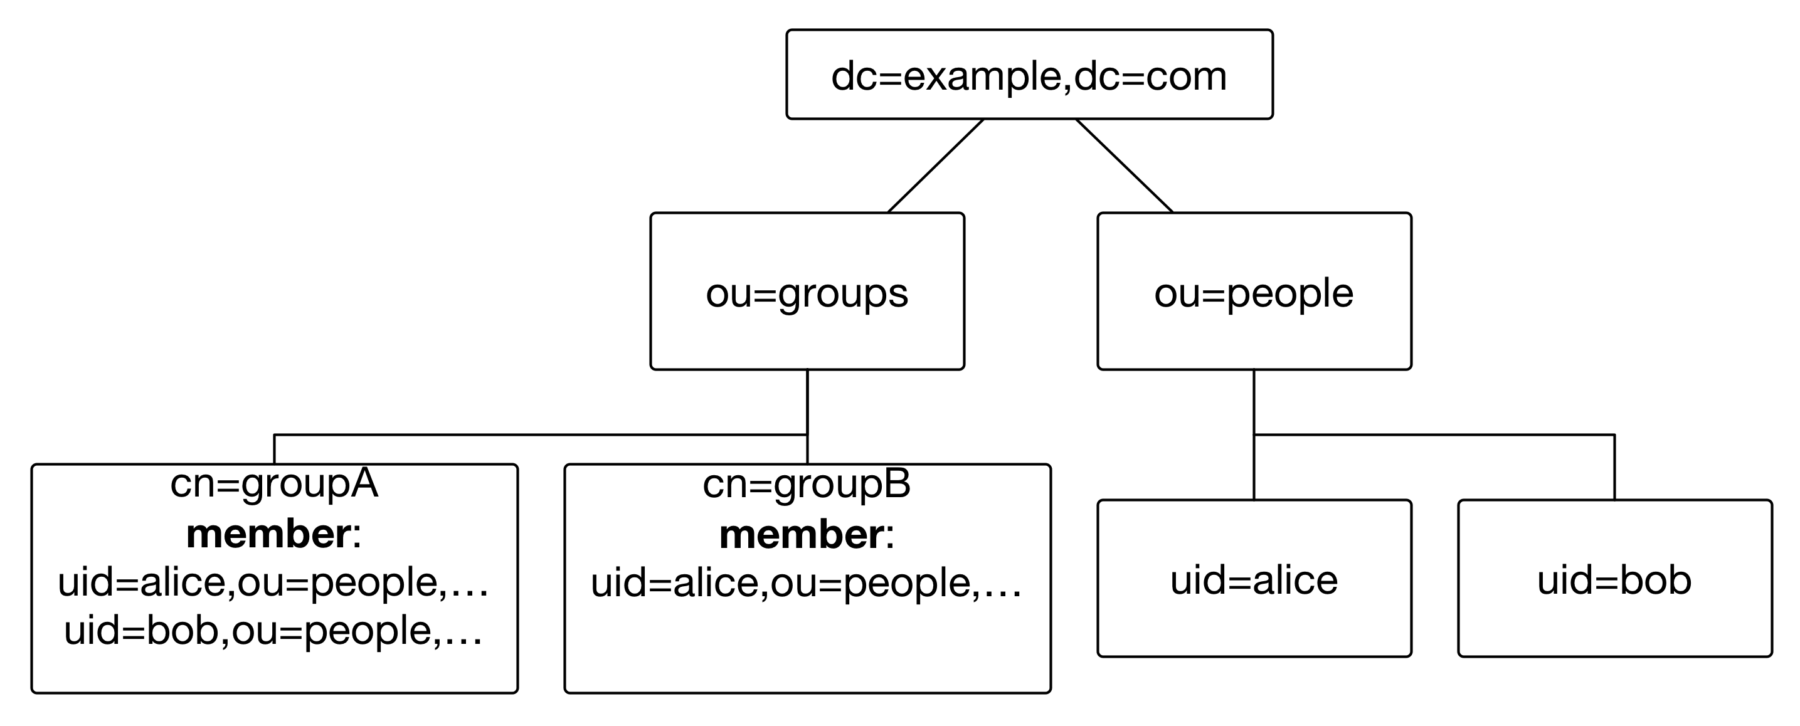
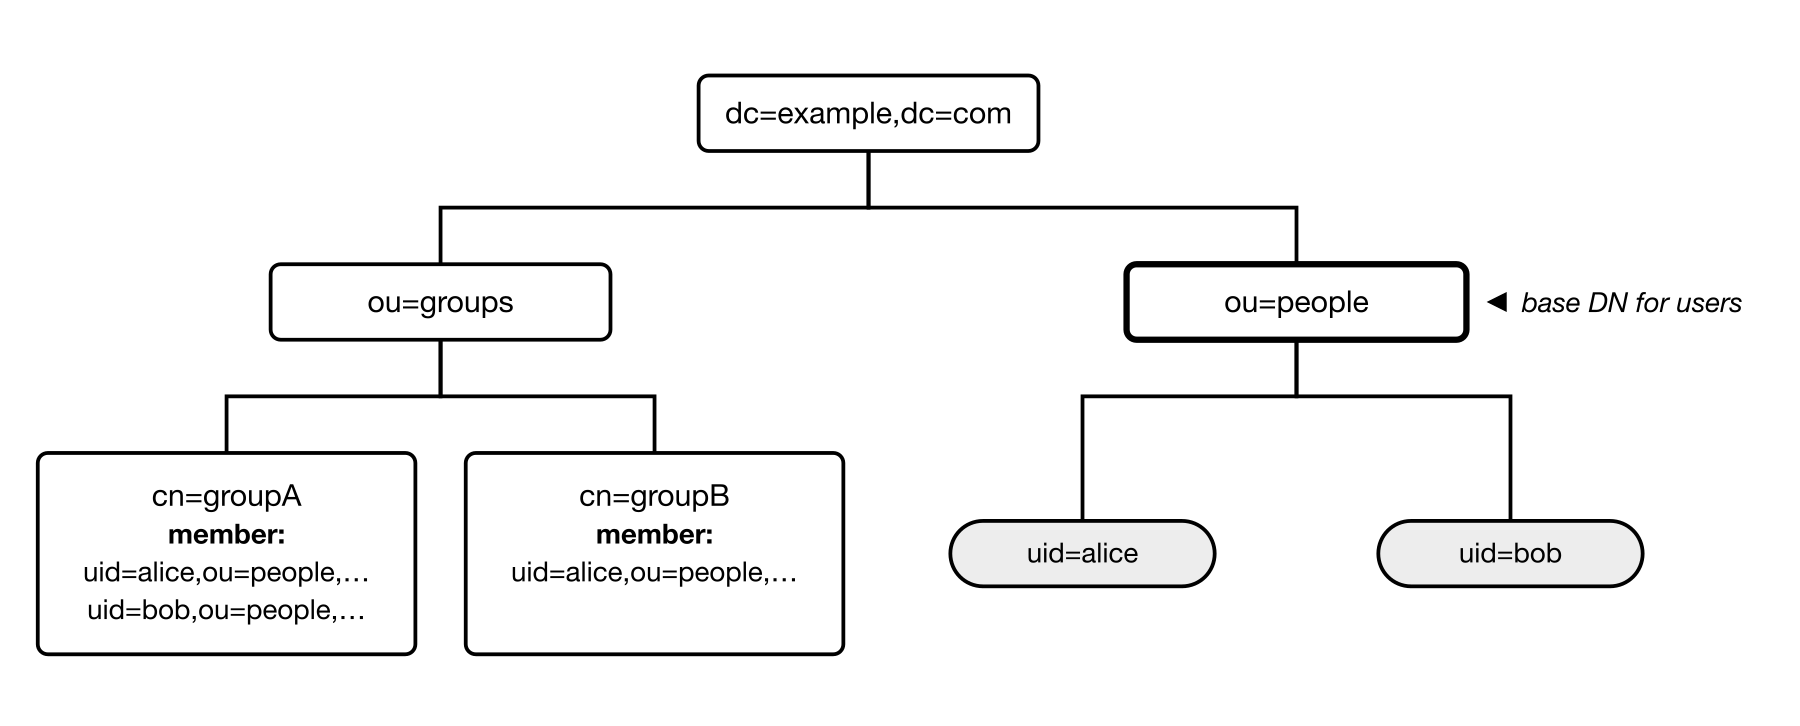
[DOCU-841] Department sync ldap (#24532)
* Add documentation for LDAP department sync

* Regenerate the ldap groups graph in the same style as the LDAP departments

* Fix link in the LDAP org sync

* Update images to also work on dark mode

* added screenshot

---------

diff --git a/docs/system-admin-guide/authentication/ldap-connections/ldap-department-synchronization/README.md b/docs/system-admin-guide/authentication/ldap-connections/ldap-department-synchronization/README.md
@@ -2,11 +2,146 @@
 sidebar_navigation:
   title: LDAP department synchronization
   priority: 003
-description: Synchronize LDAP departments.
-keywords: synchronize ldap groups, ldap department, organization
+description: Synchronize LDAP organizational units into the OpenProject department hierarchy.
+keywords: synchronize ldap departments, ldap department, organizational unit, organization, hierarchy
 
 ---
 
-# Synchronize LDAP and OpenProject departments(Enterprise add-on)
+# Synchronize LDAP and OpenProject departments (Enterprise add-on)
 
-[feature: ldap_groups ] 
+[feature: ldap_groups ]
+
+In OpenProject Enterprise edition, you can mirror the organizational unit (OU) structure of your LDAP or Active Directory into the OpenProject [organization](../../../users-permissions/organization/): each OU below a configured base DN becomes a department, and users are assigned to the department of the OU they reside in. This guide assumes that you:
+
+- have set up your LDAP authentication source (see the “[Manage LDAP authentication](../../ldap-connections/)” guide)
+- have an LDAP subtree in which departments are modelled as organizational unit entries, with user entries placed directly below the OU they belong to
+
+> [!NOTE]
+> This feature is available for both Enterprise cloud and Enterprise on-premises. When using Enterprise cloud, your LDAP server must be reachable from the OpenProject cloud infrastructure, which typically means exposing it to the internet, which is not recommended. This is a network and security consideration for your organization to evaluate. Consider using [SAML](../../saml/) or [SCIM provisioning](../../scim/) as a more secure alternative.
+
+For the sake of simplicity, we assume that in this guide your LDAP structure looks like the following, with `ou=org,dc=example,dc=com` as the subtree you want to synchronize:
+
+![LDAP organizational unit hierarchy below the base DN, with user entries in their organizational units](ldap-departments-1-900x444@2x.png)
+
+Synchronizing this subtree results in the following department hierarchy in OpenProject, with `jdoe` assigned to _IT / Development / Frontend_, `bsmith` to _IT / Development / Backend_ and `hwest` to _Human Resources / Recruiting_:
+
+```text
+IT
+├── Development
+│   ├── Frontend
+│   └── Backend
+└── Support
+Human Resources
+├── Recruiting
+└── Support
+```
+
+Note that the base DN itself is only the anchor of the synchronization and does not become a department. Its direct child OUs become top-level departments, deeper OUs are nested accordingly.
+
+To access the LDAP department synchronization administration pane, expand the LDAP authentication menu item in your administration.
+
+## Create an LDAP department synchronization
+
+Unlike [group synchronization](../ldap-group-synchronization/), departments are never mapped one by one. You always configure a subtree, and OpenProject discovers the organizational units within it.
+
+To create a new synchronization, use the **+ Add LDAP department synchronization** button on the top right of the index page. The form will open, where you can specify the following: 
+
+- **Name:** A label for this synchronization, for organizational purposes only.
+- **LDAP connection:** Select the LDAP connection you want this synchronization to use. Users created by department synchronization will be tied to that LDAP and may bind against it for authentication.
+- **Base DN:** Enter the DN of the subtree whose organizational units should be synchronized, for example `ou=org,dc=example,dc=com`. It must be within the base DN of the selected LDAP connection, and it may not overlap the base DN of another synchronization on the same LDAP connection.
+- **Organizational unit filter:** The RFC4515 LDAP filter identifying the organizational unit entries to be synchronized. Defaults to `(objectClass=organizationalUnit)`.
+- **OU name attribute:** The attribute used for naming the associated OpenProject departments, for example `ou`.
+- **Unique identifier attribute:** (optional) The attribute holding a stable unique identifier of the OU entry, for example `objectGUID` (Active Directory) or `entryUUID` (OpenLDAP). When set, departments survive renames and moves of their OU. Leave empty to match OUs by DN.
+- **User filter:** (optional) An RFC4515 LDAP filter identifying user entries below the base DN. Leave empty to use the filter of the LDAP connection, or a generic `(objectClass=person)` filter when the connection does not define one.
+- **Sync users:** Check this option if you want users found below the base DN to be automatically created in OpenProject. When unchecked, only users that already exist in OpenProject are assigned to departments.
+
+![Form to create a new LDAP department synchronization in OpenProject administration](openproject_system_guide_add_ldap_department_sync.png)
+
+Click on **Create** to finish the creation of the synchronization. A first synchronization is started in the background immediately, and the department hierarchy and its members are synchronized every 30 minutes afterwards through a background job.
+
+## How the synchronization works
+
+Each run consists of two steps:
+
+1. **Structure:** The organizational unit filter is queried against the base DN. Every matching OU is created or updated as a department (named from the **OU name attribute**), nested according to its position in the LDAP tree.
+2. **Members:** The user filter is queried against the base DN. Each user entry is assigned to the department of its **immediate parent OU**.
+
+LDAP is authoritative for the memberships it manages. A user can only belong to one department, so a user found below a different OU than before is moved: they are removed from their previous department and added to the new one. Memberships that the synchronization no longer sees in LDAP are removed as well.
+
+To trigger a synchronization manually (OU discovery **and** member sync), use the **Synchronize organizational units** button on the detail page of a synchronization, or run the following rake task in a [console](../../../../installation-and-operations/operation/control/):
+
+```shell
+bundle exec rake ldap_departments:synchronize
+```
+
+The rake task synchronizes all configured trees, the button only the one you are looking at.
+
+## Managed departments
+
+The detail page of a synchronization lists all departments it currently manages, with their full path, the DN of the OU they were created from, and their member count. The departments themselves are managed under [**Administration** → **Users and permissions** → **Organization**](../../../users-permissions/organization/), where they are marked as _Managed by LDAP synchronization_.
+
+Because the synchronization owns them, managed departments are read-only in that administration section:
+
+- Their name and parent department cannot be changed manually.
+- Users cannot be added to or removed from them manually, and users belonging to a managed department cannot be moved to another department.
+- No department can be created or moved underneath a managed department.
+- Managed departments cannot be deleted.
+
+To edit a department manually again, stop managing it as described below.
+
+## Stop managing departments
+
+Departments and their members are never deleted by removing a mapping — they only stop being managed and become regular departments that you can edit or delete manually.
+
+- **Stop managing a single department:** On the detail page of the synchronization, open the **More** (**⋯**) menu of a department and select **Delete**. The mapping is removed, the department and its members are kept. It will be recreated as a managed department on the next run if its OU still matches the filter.
+- **Remove a whole synchronization:** Open the **More** (**⋯**) menu of the synchronization on the index page and select **Delete**. All departments it managed are kept and become regular departments.
+
+If an OU disappears from your LDAP (or no longer matches the organizational unit filter), OpenProject drops the mapping automatically during the next run. The department and its members are kept as an unmanaged department.
+
+## FAQ
+
+### Are nested organizational units supported?
+
+Yes. Organizational units are synchronized at any depth below the base DN and are nested accordingly in the OpenProject department hierarchy.
+
+Users, however, are only assigned to the department of the OU they reside in directly. A user entry that is not a direct child of a synchronized OU is not assigned to any department.
+
+### Can I synchronize several subtrees?
+
+Yes, you can create as many synchronizations as you need, also against different LDAP connections. Two synchronizations on the same LDAP connection may not overlap, though: neither base DN may be an ancestor of, or identical to, the other, since the same OU cannot be claimed by two synchronizations.
+
+### What happens when an organizational unit is renamed or moved?
+
+If you configured a **Unique identifier attribute**, the OU is matched by that identifier and the existing department is renamed or re-nested accordingly.
+
+Without it, OUs are matched by DN: the renamed or moved OU is treated as a new one, and the department of the old DN is unmanaged (but kept). We therefore recommend setting the unique identifier attribute whenever your directory provides one.
+
+### Can I combine department synchronization with group synchronization?
+
+Yes. Departments and groups are separate concepts in OpenProject, and both synchronizations are independent of each other. Users can be a member of any number of groups while belonging to exactly one department.
+
+## Troubleshooting
+
+### No departments are being synchronized
+
+1. Double-check the base DN and the LDAP connection. The base DN must be contained within the base DN of the LDAP connection, otherwise it will not be found by the connection, as the connection's base DN is used for all subsequent queries.
+2. Verify the organizational unit filter against your directory, for example with `ldapsearch`. If your directory models departments with a different object class than `organizationalUnit`, adjust the filter accordingly.
+3. Remember that the base DN itself never becomes a department. Only entries **below** it are synchronized.
+4. Check that the **OU name attribute** exists on your OU entries. Entries without a value for that attribute are skipped, since the department cannot be named.
+
+### Users are not being assigned to departments
+
+For users to be assigned to departments, the following conditions need to be met:
+
+1. The user entries must be located directly below a synchronized OU. Users placed in a separate subtree (for example a common `ou=people` branch) cannot be assigned, as their parent entry is not a department.
+2. The user filter must match your user entries. When left empty, the filter of the LDAP connection is used, falling back to `(objectClass=person)`. Verify it with `ldapsearch` if in doubt.
+3. The **Login** attribute configured on the LDAP connection must match an attribute that is actually present on your LDAP user entries. If the attribute name is wrong or absent, users will be found below the OU but not matched to OpenProject accounts.
+4. Users that do not yet exist in OpenProject are only created when **Sync users** is checked for the synchronization.
+5. Users to be created need to have all required attributes present and non-empty: _login, email, first and last name_. If any of these attributes are missing or empty, the user cannot be saved to the database.
+6. If your enterprise license exceeds the user limit, new users cannot be created through the synchronization. On-premises users will find a corresponding entry in the application logs.
+
+### A user is in the wrong department
+
+The department is derived from the OU the user entry resides in, and LDAP takes precedence over manual assignments. If a user was assigned to a department manually before, the synchronization moves them to the department of their OU on the next run.
+
+Note that this also applies in reverse: as long as a user belongs to a managed department, they cannot be moved to another department manually.

diff --git a/docs/system-admin-guide/users-permissions/organization/README.md b/docs/system-admin-guide/users-permissions/organization/README.md
@@ -19,7 +19,7 @@ To manage your organization, navigate to **Administration** → **Users and perm
 The **Organization** page lets you create and maintain your company's organizational hierarchy.
 
 > [!TIP]
-> You can also import an existing organizational structure through [LDAP department synchronization](../../authentication/ldap-connections/ldap-group-synchronization/).
+> You can also import an existing organizational structure through [LDAP department synchronization](../../authentication/ldap-connections/ldap-department-synchronization/).
 
 ## Organization overview
 
